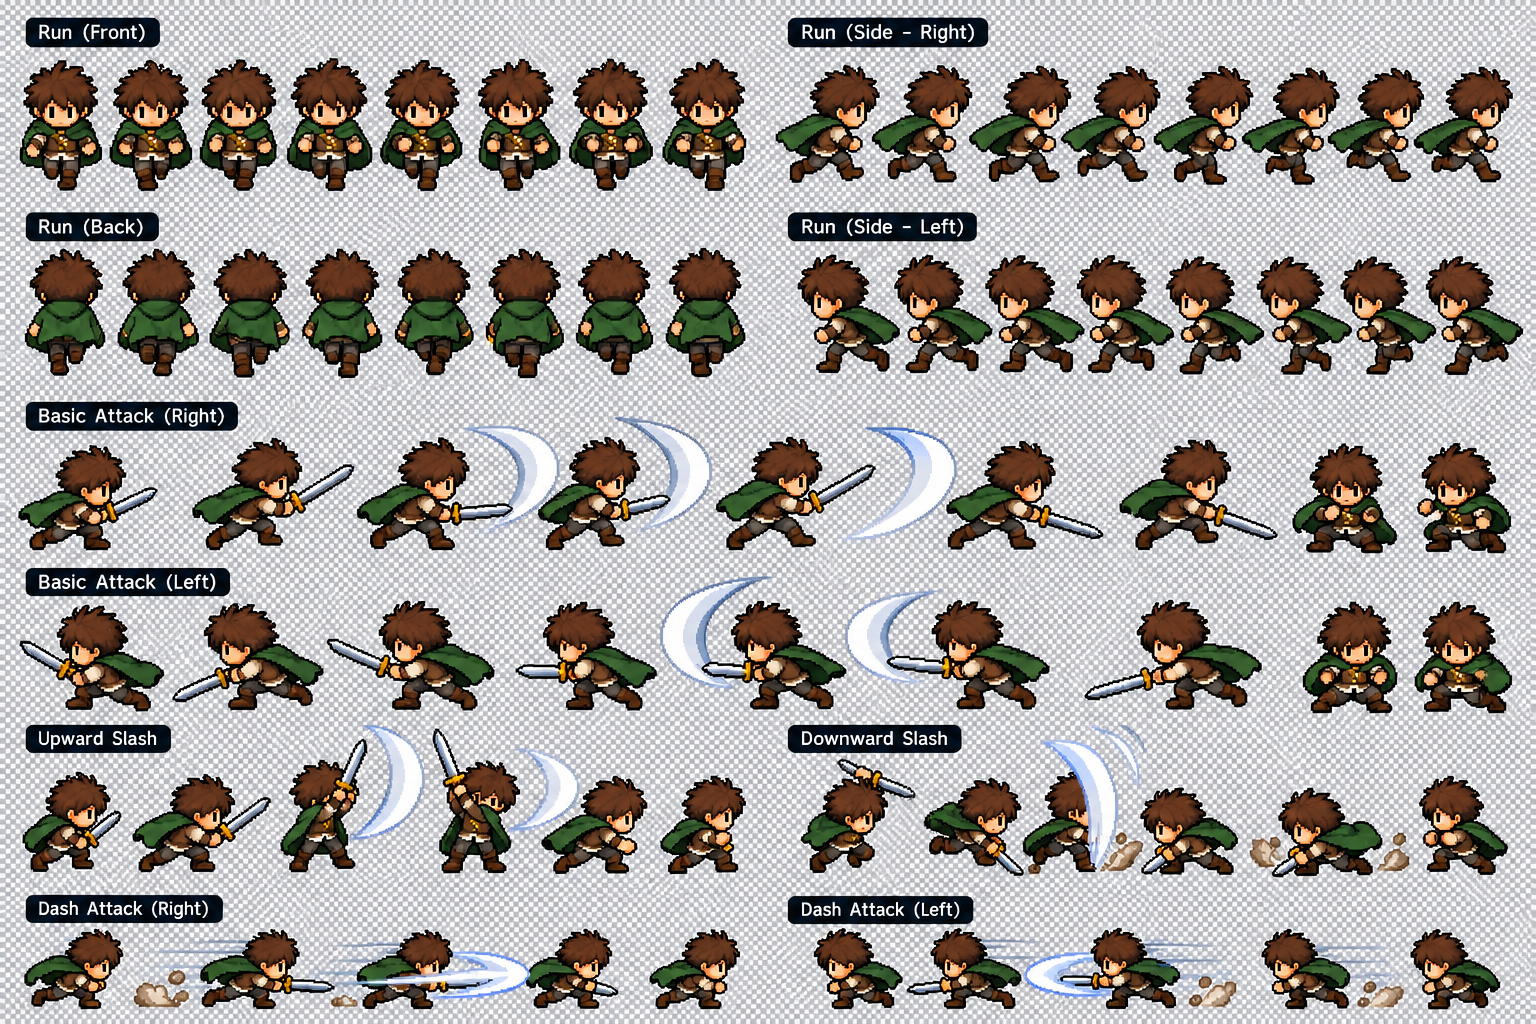
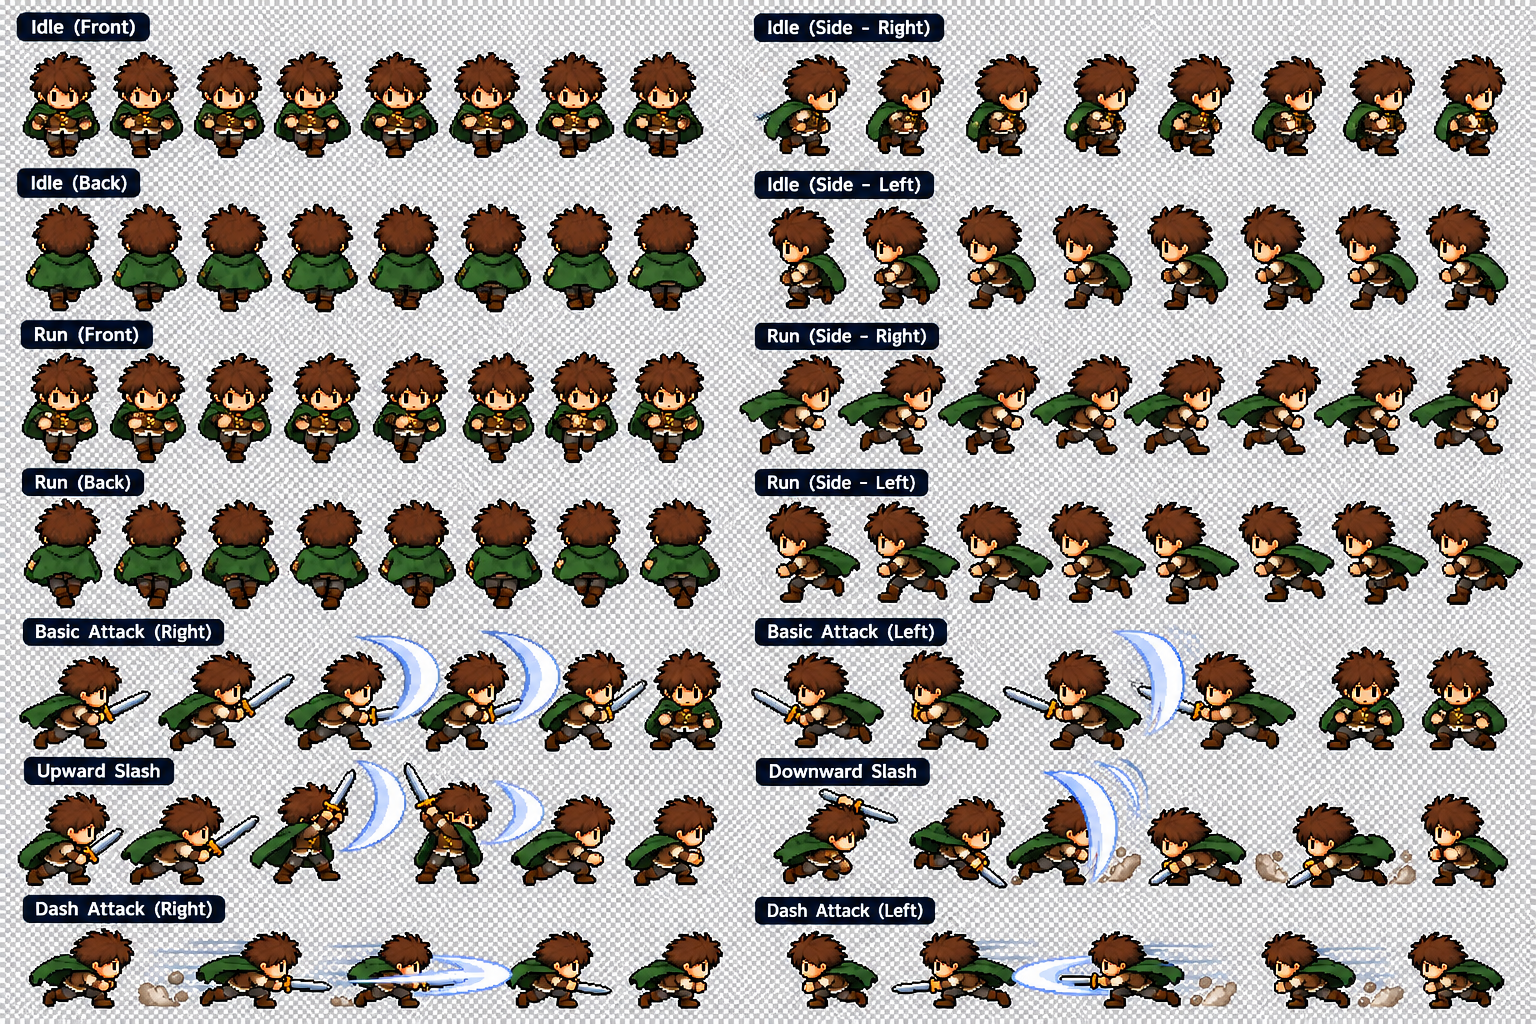
Hero: full labelled animation sheet with idles
New tools/hero-anim.png: 8-frame idles (front, back, right, left) that now loop
while standing still, 8-frame runs in all four directions, basic attacks right
and left, upward/downward slashes and dash attacks right and left. Each row is
matched to its labelled movement.

Claude-Session: https://claude.ai/code/session_01FFhEA1UyqBRgv5VPwuY3ib

diff --git a/js/hero-frames.js b/js/hero-frames.js
@@ -1,3 +1,3 @@
 // Generated from the hero sprite sheets by tools/build-hero.py: [x, y, w, h, anchorX] per frame.
 // Alpha encodes recolour roles: 255 keep, 254 cloak, 253 hair, 252 skin, 251 tunic.
-export const HERO_FRAMES = {"idleF": [[0, 7, 20, 30, 10]], "idleR": [[21, 3, 27, 34, 17]], "idleL": [[49, 3, 27, 34, 10]], "idleB": [[77, 4, 21, 33, 9]], "hurt": [[99, 12, 26, 25, 10]], "front": [[126, 3, 21, 34, 10], [148, 3, 21, 34, 10], [170, 3, 20, 34, 10], [191, 3, 22, 34, 11], [214, 3, 21, 34, 10], [236, 3, 21, 34, 10], [258, 3, 22, 34, 11], [281, 3, 22, 34, 12]], "side": [[304, 6, 27, 31, 18], [332, 7, 26, 30, 17], [359, 7, 27, 30, 18], [387, 7, 26, 30, 18], [414, 6, 26, 31, 17], [441, 7, 25, 30, 17], [467, 8, 25, 29, 16], [493, 7, 26, 30, 17]], "sideL": [[520, 6, 27, 31, 9], [548, 6, 26, 31, 8], [575, 7, 26, 30, 9], [602, 7, 25, 30, 8], [628, 6, 25, 31, 8], [654, 6, 25, 31, 8], [680, 6, 25, 31, 8], [706, 6, 25, 31, 8]], "back": [[732, 4, 21, 33, 11], [754, 4, 21, 33, 10], [776, 4, 21, 33, 10], [798, 3, 21, 34, 10], [820, 4, 20, 33, 10], [841, 4, 20, 33, 10], [862, 4, 20, 33, 10], [883, 3, 21, 34, 10]], "atk": [[905, 10, 36, 27, 17], [942, 8, 42, 29, 8], [985, 8, 40, 29, 19], [1026, 8, 35, 29, 7], [1062, 8, 41, 29, 8], [1104, 9, 41, 28, 17], [1146, 8, 41, 29, 7]], "atkL": [[1188, 9, 37, 28, 26], [1226, 9, 39, 28, 18], [1266, 8, 43, 29, 23], [1310, 9, 37, 28, 19], [1348, 9, 38, 28, 20], [1387, 9, 42, 28, 24], [1430, 9, 46, 28, 26]], "atkF": [[1477, 7, 30, 30, 5], [1508, 12, 26, 25, 23], [1535, 10, 20, 27, 14], [1556, 14, 35, 23, 17], [1592, 14, 35, 23, 16], [1628, 11, 34, 26, 17]], "atkB": [[1663, 11, 26, 26, 6], [1690, 11, 36, 26, 16], [1727, 2, 23, 35, 6], [1751, 0, 23, 37, 13], [1775, 12, 28, 25, 17], [1804, 11, 22, 26, 9]], "dash": [[1827, 16, 42, 21, 19], [1870, 16, 44, 21, 22], [1915, 16, 33, 21, 10], [1949, 16, 24, 21, 9], [1974, 16, 23, 21, 9]], "dashL": [[1998, 16, 23, 21, 14], [2022, 16, 30, 21, 15], [2053, 16, 32, 21, 22], [2086, 16, 42, 21, 27], [2129, 16, 33, 21, 18]], "dizzy": [[2163, 6, 23, 31, 12]], "down": [[2187, 22, 32, 15, 16]], "win": [[2220, 2, 24, 35, 10]]};
+export const HERO_FRAMES = {"hurt": [[0, 10, 26, 25, 10]], "idleF": [[27, 2, 24, 33, 12], [52, 2, 23, 33, 11], [76, 2, 22, 33, 10], [99, 2, 24, 33, 11], [124, 2, 24, 33, 11], [149, 2, 25, 33, 12], [175, 2, 24, 33, 11], [200, 2, 25, 33, 12]], "idleR": [[226, 3, 29, 32, 19], [256, 3, 24, 32, 14], [281, 3, 24, 32, 13], [306, 3, 23, 32, 13], [330, 3, 24, 32, 13], [355, 4, 23, 31, 13], [379, 3, 22, 32, 12], [402, 3, 23, 32, 12]], "idleL": [[426, 3, 25, 32, 10], [452, 3, 24, 32, 9], [477, 2, 25, 33, 9], [503, 2, 25, 33, 9], [529, 2, 25, 33, 9], [555, 2, 26, 33, 9], [582, 2, 26, 33, 10], [609, 2, 26, 33, 9]], "idleB": [[636, 1, 24, 34, 12], [661, 2, 23, 33, 11], [685, 1, 23, 34, 11], [709, 1, 24, 34, 11], [734, 2, 24, 33, 11], [759, 2, 24, 33, 12], [784, 2, 23, 33, 11], [808, 2, 25, 33, 12]], "front": [[834, 1, 24, 34, 13], [859, 1, 24, 34, 13], [884, 1, 23, 34, 13], [908, 1, 24, 34, 13], [933, 1, 23, 34, 13], [957, 1, 23, 34, 12], [981, 1, 23, 34, 12], [1005, 1, 24, 34, 13]], "side": [[1030, 4, 33, 31, 23], [1064, 4, 33, 31, 24], [1098, 4, 32, 31, 22], [1131, 4, 32, 31, 22], [1164, 4, 32, 31, 22], [1197, 4, 32, 31, 22], [1230, 4, 32, 31, 22], [1263, 4, 32, 31, 22]], "sideL": [[1296, 3, 29, 32, 9], [1326, 3, 30, 32, 9], [1357, 4, 30, 31, 9], [1388, 3, 30, 32, 9], [1419, 3, 30, 32, 9], [1450, 4, 30, 31, 9], [1481, 3, 30, 32, 9], [1512, 2, 30, 33, 9]], "back": [[1543, 1, 25, 34, 14], [1569, 1, 24, 34, 12], [1594, 1, 24, 34, 12], [1619, 1, 25, 34, 12], [1645, 1, 24, 34, 11], [1670, 1, 24, 34, 12], [1695, 1, 24, 34, 11], [1720, 1, 25, 34, 12]], "atk": [[1746, 6, 41, 29, 20], [1788, 4, 42, 31, 17], [1831, 4, 35, 31, 20], [1867, 3, 34, 32, 16], [1902, 3, 34, 32, 16]], "atkL": [[1937, 5, 42, 30, 18], [1980, 4, 32, 31, 11], [2013, 4, 43, 31, 20], [2057, 4, 37, 31, 12]], "atkF": [[2095, 5, 39, 30, 7], [2135, 6, 31, 29, 28], [2167, 7, 26, 28, 19], [2194, 10, 46, 25, 24], [2241, 9, 44, 26, 20], [2286, 6, 27, 29, 17]], "atkB": [[2314, 6, 33, 29, 16], [2348, 6, 43, 29, 19], [2392, 4, 32, 31, 12], [2425, 4, 26, 31, 15], [2452, 6, 33, 29, 11], [2486, 7, 29, 28, 16]], "dash": [[2516, 10, 50, 25, 24], [2567, 11, 43, 24, 20], [2611, 11, 38, 24, 11], [2650, 11, 33, 24, 17], [2684, 11, 29, 24, 16]], "dashL": [[2714, 11, 28, 24, 11], [2743, 10, 39, 25, 18], [2783, 11, 40, 24, 19], [2824, 11, 47, 24, 28], [2872, 11, 46, 24, 24]], "dizzy": [[2919, 4, 23, 31, 12]], "down": [[2943, 20, 32, 15, 16]], "win": [[2976, 0, 24, 35, 10]]};

diff --git a/js/render.js b/js/render.js
@@ -393,7 +393,7 @@ export class Renderer {
     g.fillStyle = '#e6e0cc'; g.fillRect(l, t, w, h);
     g.fillStyle = '#3a6ec0'; g.fillRect(l + 1, t + 1, w - 2, h - 4);
     // their head and shoulders, from the front-facing sprite
-    const s = charSprite(c.look, 0, 0, 'idle');
+    const s = charSprite(c.look, 0, 0, 'idle');  // (first idle frame for the card portrait)
     const sh = Math.round(s.img.height * 0.42);
     const dw = w - 2, dh = Math.round(dw * sh / s.img.width);
     g.save();
@@ -476,8 +476,7 @@ export class Renderer {
     else if (dashing) s = charSprite(p.look, p.dir, Math.floor((now - this.dashAt.get(p.id)) / (DASH_POSE_MS / 5)), 'dash');
     else if (p.mv || p.dash) s = charSprite(p.look, p.dir, Math.floor(now / RUN_FRAME_MS));
     else {
-      s = charSprite(p.look, p.dir, 0, 'idle');
-      bob = Math.floor(now / 500 + (p.id.charCodeAt(1) || 0)) % 2; // breathing
+      s = charSprite(p.look, p.dir, Math.floor(now / 140), 'idle'); // the sheet's idle loop
     }
 
     // Dash: a trail of fading afterimages

diff --git a/js/sprites.js b/js/sprites.js
@@ -120,7 +120,7 @@ export function charSprite(look, facing, frame = 0, pose = 'walk') {
   else if (pose === 'dash') kind = facing === 3 ? 'dashL' : 'dash'; // frame = which dash frame
   else kind = pose;
   const n = heroFrameCount(kind);
-  const index = pose === 'idle' ? 0 : pose === 'atk' ? Math.min(n - 1, Math.floor(frame * n)) : pose === 'dash' ? Math.min(n - 1, frame) : ((frame % n) + n) % n;
+  const index = pose === 'atk' ? Math.min(n - 1, Math.floor(frame * n)) : pose === 'dash' ? Math.min(n - 1, frame) : ((frame % n) + n) % n;
   const native = NATIVE[kind];
   const flip = (native === 'left' || native === 'right') && native !== (left ? 'left' : 'right');
   const key = `${look.skin}${look.hairColor}${look.outfit}${look.outfitColor}|${kind}|${index}|${flip ? 1 : 0}`;

diff --git a/js/main.js b/js/main.js
@@ -226,7 +226,7 @@ $('char-done').addEventListener('click', () => {
     // Show off the poses: walk, breathe, swing
     const t = performance.now() % 3600;
     const s = t < 1800 ? charSprite(draft.look, DIRS[previewDir], Math.floor(t / RUN_FRAME_MS))
-      : t < 3000 ? charSprite(draft.look, DIRS[previewDir], 0, 'idle')
+      : t < 3000 ? charSprite(draft.look, DIRS[previewDir], Math.floor(t / 140), 'idle')
         : charSprite(draft.look, DIRS[previewDir], (t - 3000) / 600, 'atk');
     g.drawImage(s.img, 120 - s.ox * 5, 190 - s.oy * 5, s.img.width * 5, s.img.height * 5);
   }

diff --git a/tools/build-hero.py b/tools/build-hero.py
@@ -36,12 +36,12 @@ im = clear_checker(Image.open('tools/hero-sheet.png'))
 # walk left (9), back (5), swing right (7), swing left (7, drawn mirrored so listed
 # right-to-left), then hurt / knocked out / victory.
 F = {
- 'idleF': [(355,21,448,167)], '_front': [(355,21,448,167),(475,16,571,174),(608,16,700,174),(731,16,828,167),(862,16,958,169)],
- 'idleR': [(38,189,167,353)], '_side':  [(38,189,167,353),(165,190,299,354),(300,190,432,352),(434,191,566,354),(567,192,709,358),
+ '_front': [(355,21,448,167),(475,16,571,174),(608,16,700,174),(731,16,828,167),(862,16,958,169)],
+ '_side':  [(38,189,167,353),(165,190,299,354),(300,190,432,352),(434,191,566,354),(567,192,709,358),
            (709,191,842,353),(844,192,977,355),(994,192,1113,356),(1123,191,1250,355)],
- 'idleL': [(63,369,195,535)], '_sideL': [(63,369,195,535),(209,371,327,536),(337,371,469,534),(470,373,608,534),(609,376,752,539),
+ '_sideL': [(63,369,195,535),(209,371,327,536),(337,371,469,534),(470,373,608,534),(609,376,752,539),
            (755,377,881,539),(883,378,1013,540),(1016,378,1143,540),(1146,377,1275,539)],
- 'idleB': [(338,554,439,716)], '_back':  [(338,554,439,716),(462,554,568,716),(604,554,703,717),(736,555,837,715),(867,555,967,717)],
+ '_back':  [(338,554,439,716),(462,554,568,716),(604,554,703,717),(736,555,837,715),(867,555,967,717)],
  'hurt':  [(62,1060,187,1181)],
 }
 K = 0.2
@@ -123,14 +123,16 @@ run_frames = {}
 
 # tools/hero-anim.png: the labelled animation sheet (checkerboard background, dark label
 # boxes). Each entry: the box it's in, how many frames, and how many of them to use.
-ANIM = {
-    'front': ((0, 50, 760, 205), 8, 8), 'side': ((770, 50, 1536, 205), 8, 8),
-    'back': ((0, 240, 760, 395), 8, 8), 'sideL': ((770, 240, 1536, 395), 8, 8),
-    # basic attacks: the last two frames turn back to face the viewer, so they're left out
-    'atk': ((0, 425, 1536, 565), 9, 7), 'atkL': ((0, 570, 1536, 722), 9, 7),
-    'atkB': ((0, 722, 770, 885), 6, 6),   # upward slash, for attacking while facing away
-    'atkF': ((770, 722, 1536, 885), 6, 6),  # downward slash, for attacking while facing the viewer
-    'dash': ((0, 925, 770, 1024), 5, 5), 'dashL': ((770, 925, 1536, 1024), 5, 5),
+ANIM = {  # each labelled row: its box on the sheet, how many frames, how many to use
+    'idleF': ((0, 45, 740, 160), 8, 8), 'idleR': ((745, 45, 1536, 160), 8, 8),
+    'idleB': ((0, 200, 740, 312), 8, 8), 'idleL': ((745, 200, 1536, 312), 8, 8),
+    'front': ((0, 350, 740, 462), 8, 8), 'side': ((735, 350, 1536, 462), 8, 8),
+    'back': ((0, 495, 740, 612), 8, 8), 'sideL': ((745, 495, 1536, 612), 8, 8),
+    # basic attacks: the last frames turn back to face the viewer, so they're left out
+    'atk': ((0, 645, 745, 755), 6, 5), 'atkL': ((745, 645, 1536, 755), 6, 4),
+    'atkB': ((0, 785, 745, 892), 6, 6),     # upward slash, for attacking while facing away
+    'atkF': ((765, 785, 1536, 892), 6, 6),  # downward slash, for attacking while facing the viewer
+    'dash': ((0, 925, 745, 1022), 5, 5), 'dashL': ((765, 925, 1536, 1022), 5, 5),
 }
 def cut_sheet(path, anims):
     """Cut a labelled animation sheet (checkerboard background, dark label boxes) into
@@ -259,7 +261,7 @@ assert len(cells) == 6, f'expected 6 poses on the bottom row, found {len(cells)}
 run_frames['dizzy'] = [cells[3]]
 run_frames['down'] = [cells[4]]
 run_frames['win'] = [cells[5]]
-for name in ('front', 'side', 'sideL', 'back', 'atk', 'atkL', 'atkF', 'atkB', 'dash', 'dashL', 'dizzy', 'down', 'win'):
+for name in ('idleF', 'idleR', 'idleL', 'idleB', 'front', 'side', 'sideL', 'back', 'atk', 'atkL', 'atkF', 'atkB', 'dash', 'dashL', 'dizzy', 'down', 'win'):
     for cell in run_frames[name]:
         k = k_old if name in ('dizzy', 'down', 'win') else run_scale.get(name, k_run)
         sm = cell.resize((max(1, round(cell.width * k)), max(1, round(cell.height * k))), Image.BOX)
